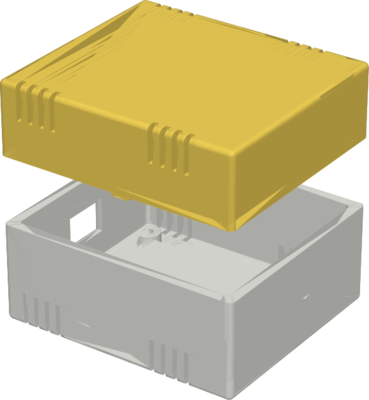
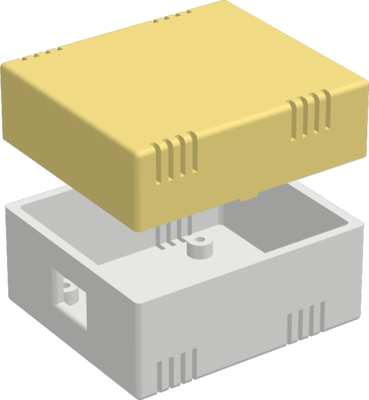
Add exploded stack diagram and a script to regenerate README images
scripts/render_images.py renders the board views with kicad-cli and the
case and exploded stack (bottom shell, base board, CO2 board, lid) with
pyrender from KiCad GLB exports and the case STLs. The case render now
uses the same renderer as the exploded view.

diff --git a/scripts/render_images.py b/scripts/render_images.py
@@ -1,0 +1,224 @@
+#!/usr/bin/env -S uv run --script
+# /// script
+# requires-python = ">=3.10"
+# dependencies = ["pyrender", "trimesh", "scipy", "pillow", "numpy"]
+# [tool.uv]
+# override-dependencies = ["pyopengl==3.1.9"]
+# ///
+"""Render the README images in docs/img from the KiCad boards and case STLs.
+
+Needs kicad-cli (KiCad 8+), ImageMagick and an EGL-capable OpenGL driver.
+Run from anywhere:  uv run scripts/render_images.py
+"""
+
+import os
+import shutil
+import subprocess
+import sys
+import tempfile
+from pathlib import Path
+
+os.environ.setdefault('PYOPENGL_PLATFORM', 'egl')
+
+import numpy as np
+import pyrender
+import trimesh
+from PIL import Image, ImageDraw, ImageFont
+
+ROOT = Path(__file__).resolve().parent.parent
+OUT = ROOT / 'docs' / 'img'
+BOARDS = {
+    'base': ROOT / 'hardware/base/E73-2G4M08S1C-52840.kicad_pcb',
+    'co2': ROOT / 'hardware/co2/schneggi_sensor_kicad7.kicad_pcb',
+}
+CASE_TOP = ROOT / 'hardware/case/top.stl'
+CASE_BOTTOM = ROOT / 'hardware/case/bottom.stl'
+
+# Case STLs are Y-up in mm; the boards rest on the standoffs at y = 5 mm,
+# covering x 0..35 and z -30..0. KiCad GLB exports are Y-up in metres with
+# the board spanning z 0..30 from the grid origin.
+STANDOFF_Y = 5.0
+BOARD_Z_SHIFT = -30.0
+LID_COLOR = [0.96, 0.78, 0.25]
+SHELL_COLOR = [0.88, 0.88, 0.86]
+LABEL_GREY = (136, 136, 136, 255)
+FONT_CANDIDATES = [
+    '/usr/share/fonts/noto/NotoSans-Medium.ttf',
+    '/usr/share/fonts/truetype/noto/NotoSans-Medium.ttf',
+    '/usr/share/fonts/TTF/DejaVuSans.ttf',
+    '/usr/share/fonts/truetype/dejavu/DejaVuSans.ttf',
+]
+
+
+def run(*cmd):
+    subprocess.run(cmd, check=True, stdout=subprocess.DEVNULL, stderr=subprocess.DEVNULL)
+
+
+def trim(src, dst, size):
+    run('magick', str(src), '-trim', '+repage', '-resize', size, '-strip',
+        '-define', 'png:compression-level=9', str(dst))
+
+
+def render_board_images(tmp):
+    """Raytraced isometric view of each board, straight from KiCad."""
+    for name, pcb in BOARDS.items():
+        raw = tmp / f'{name}_raw.png'
+        run('kicad-cli', 'pcb', 'render', str(pcb), '-o', str(raw), '-w', '1200', '-h', '800',
+            '--quality', 'high', '--rotate', '-40,0,30', '--perspective', '--zoom', '0.72',
+            '--background', 'transparent')
+        trim(raw, OUT / f'{name}.png', '600x400')
+
+
+def export_glb(tmp, name):
+    glb = tmp / f'{name}.glb'
+    run('kicad-cli', 'pcb', 'export', 'glb', str(BOARDS[name]), '-o', str(glb), '--subst-models',
+        '--include-tracks', '--include-pads', '--include-soldermask', '--include-silkscreen',
+        '--grid-origin')
+    return glb
+
+
+def pose(dx=0.0, dy=0.0, dz=0.0, scale=1.0):
+    m = np.eye(4)
+    m[:3, :3] *= scale
+    m[:3, 3] = [dx, dy, dz]
+    return m
+
+
+def look_at(eye, target, up=(0, 1, 0)):
+    f = target - eye
+    f /= np.linalg.norm(f)
+    r = np.cross(f, up)
+    r /= np.linalg.norm(r)
+    u = np.cross(r, f)
+    m = np.eye(4)
+    m[:3, 0], m[:3, 1], m[:3, 2], m[:3, 3] = r, u, -f, eye
+    return m
+
+
+def mesh_color(geometry):
+    visual = geometry.visual
+    try:
+        material = visual.material
+        color = getattr(material, 'baseColorFactor', None)
+        if color is None:
+            color = material.main_color
+    except AttributeError:
+        color = visual.main_color
+    color = np.asarray(color, float)
+    if color.max() > 1:
+        color = color / 255
+    return tuple(np.round(color[:3], 3))
+
+
+class Stage:
+    def __init__(self):
+        self.scene = pyrender.Scene(bg_color=[0, 0, 0, 0], ambient_light=[0.25] * 3)
+
+    def add_stl(self, path, y, rgb):
+        material = pyrender.MetallicRoughnessMaterial(
+            baseColorFactor=rgb + [1], metallicFactor=0.0, roughnessFactor=0.7)
+        mesh = pyrender.Mesh.from_trimesh(trimesh.load(path), material=material, smooth=False)
+        self.scene.add(mesh, pose=pose(dy=y))
+
+    def add_board(self, glb, y):
+        # Merge the thousands of KiCad part meshes by colour to keep rendering fast.
+        groups = {}
+        for g in trimesh.load(glb).dump(concatenate=False):
+            groups.setdefault(mesh_color(g), []).append(
+                trimesh.Trimesh(g.vertices, g.faces, process=False))
+        for color, parts in groups.items():
+            material = pyrender.MetallicRoughnessMaterial(
+                baseColorFactor=list(color) + [1], metallicFactor=0.15, roughnessFactor=0.55)
+            mesh = pyrender.Mesh.from_trimesh(
+                trimesh.util.concatenate(parts), material=material, smooth=False)
+            self.scene.add(mesh, pose=pose(dy=y, dz=BOARD_Z_SHIFT) @ pose(scale=1000))
+
+    def render(self, center, size, distance=640, fov=13, azimuth=-35, elevation=28):
+        az, el = np.radians(azimuth), np.radians(elevation)
+        eye = center + distance * np.array(
+            [np.sin(az) * np.cos(el), np.sin(el), np.cos(az) * np.cos(el)])
+        camera_pose = look_at(eye, center)
+        self.scene.add(pyrender.PerspectiveCamera(
+            yfov=np.radians(fov), znear=distance - 190, zfar=distance + 210), pose=camera_pose)
+        for direction, intensity in (((-0.5, -1, -0.3), 2.2), ((0.6, -0.4, -0.8), 0.9),
+                                     ((0, 0.3, 1), 0.4)):
+            d = np.array(direction, float)
+            d /= np.linalg.norm(d)
+            self.scene.add(pyrender.DirectionalLight(intensity=intensity),
+                           pose=look_at(-d * 100, np.zeros(3)))
+        width, height = size
+        renderer = pyrender.OffscreenRenderer(width, height)
+        color, _ = renderer.render(self.scene, flags=pyrender.RenderFlags.RGBA)
+        renderer.delete()
+
+        view = np.linalg.inv(camera_pose)
+        focal = 1 / np.tan(np.radians(fov) / 2) * height / 2
+
+        def project(point):
+            q = view @ np.append(point, 1.0)
+            return focal * q[0] / -q[2] + width / 2, -focal * q[1] / -q[2] + height / 2
+
+        return Image.fromarray(color), project
+
+
+def label(image, project, anchors, width):
+    font_path = next((f for f in FONT_CANDIDATES if Path(f).exists()), None)
+    font = ImageFont.truetype(font_path, 46) if font_path else ImageFont.load_default()
+    canvas = Image.new('RGBA', (width + 520, image.height), (0, 0, 0, 0))
+    canvas.paste(image, (0, 0))
+    draw = ImageDraw.Draw(canvas)
+    text_x = width + 40
+    for text, point in anchors.items():
+        x, y = project(np.array(point, float))
+        draw.line([(x + 15, y), (text_x - 15, y)], fill=LABEL_GREY, width=4)
+        draw.ellipse([x + 5, y - 10, x + 25, y + 10], fill=LABEL_GREY)
+        draw.text((text_x, y), text, font=font, fill=LABEL_GREY, anchor='lm')
+    return canvas
+
+
+def render_case(tmp):
+    """Case with the lid lifted off the bottom shell."""
+    stage = Stage()
+    lift = 14
+    stage.add_stl(CASE_BOTTOM, 0, SHELL_COLOR)
+    stage.add_stl(CASE_TOP, lift, LID_COLOR)
+    image, _ = stage.render(np.array([20, (35 + lift) / 2, -15]), (1000, 1100), distance=480)
+    image.save(tmp / 'case_raw.png')
+    trim(tmp / 'case_raw.png', OUT / 'case.png', '600x400')
+
+
+def render_exploded(tmp):
+    """Exploded stack: bottom shell, base board, CO2 board, lid."""
+    lift = {'base': 42, 'co2': 72, 'lid': 88}
+    stage = Stage()
+    stage.add_stl(CASE_BOTTOM, 0, SHELL_COLOR)
+    stage.add_board(export_glb(tmp, 'base'), STANDOFF_Y + lift['base'])
+    stage.add_board(export_glb(tmp, 'co2'), STANDOFF_Y + lift['co2'])
+    stage.add_stl(CASE_TOP, lift['lid'], LID_COLOR)
+    size = (1300, 2100)
+    image, project = stage.render(np.array([20, (35 + lift['lid']) / 2, -15]), size)
+    labelled = label(image, project, {
+        'Lid': (45, lift['lid'] + 28, -20),
+        'CO2 board (optional)': (35, STANDOFF_Y + lift['co2'] + 1, -15),
+        'Base board': (38, STANDOFF_Y + lift['base'] + 1, -15),
+        'Bottom shell': (45, 12, -20),
+    }, size[0])
+    labelled.save(tmp / 'exploded_raw.png')
+    trim(tmp / 'exploded_raw.png', OUT / 'exploded.png', '900x')
+
+
+def main():
+    for tool in ('kicad-cli', 'magick'):
+        if not shutil.which(tool):
+            sys.exit(f'{tool} not found on PATH')
+    OUT.mkdir(parents=True, exist_ok=True)
+    with tempfile.TemporaryDirectory() as d:
+        tmp = Path(d)
+        render_board_images(tmp)
+        render_case(tmp)
+        render_exploded(tmp)
+    print(f'Wrote {", ".join(sorted(p.name for p in OUT.glob("*.png")))} to {OUT}')
+
+
+if __name__ == '__main__':
+    main()

diff --git a/README.md b/README.md
@@ -78,7 +78,10 @@ See [build.md](docs/build.md) for workspace options, overrides and test coverage
 ## Hardware
 
 The PCBs were designed in KiCad 7 and manufactured and assembled by JLCPCB. Schematics, layouts and case files are in [`hardware/`](hardware).
-The renders above come from the KiCad boards (`kicad-cli pcb render`) and the case STLs.
+
+<p align="center"><img src="docs/img/exploded.png" alt="Exploded view: lid, CO2 board, base board, bottom shell" width="480"></p>
+
+The renders are generated from the KiCad boards and case STLs with `uv run scripts/render_images.py`.
 
 | ![Built sensor](https://github.com/user-attachments/assets/109c8689-d393-492c-b431-5e4256592e8a) | ![Case open](https://github.com/user-attachments/assets/0dd84a7b-14a9-4d71-ae2d-bca5665277f6) |
 | :---: | :---: |
